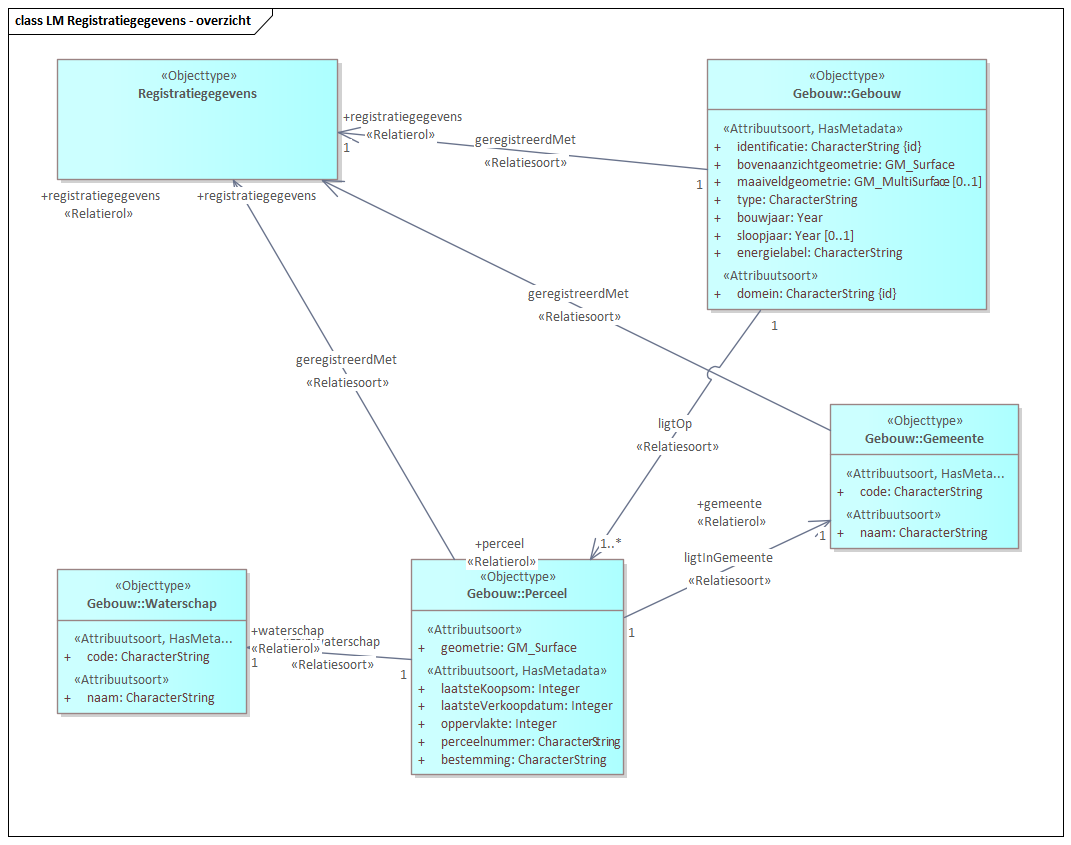
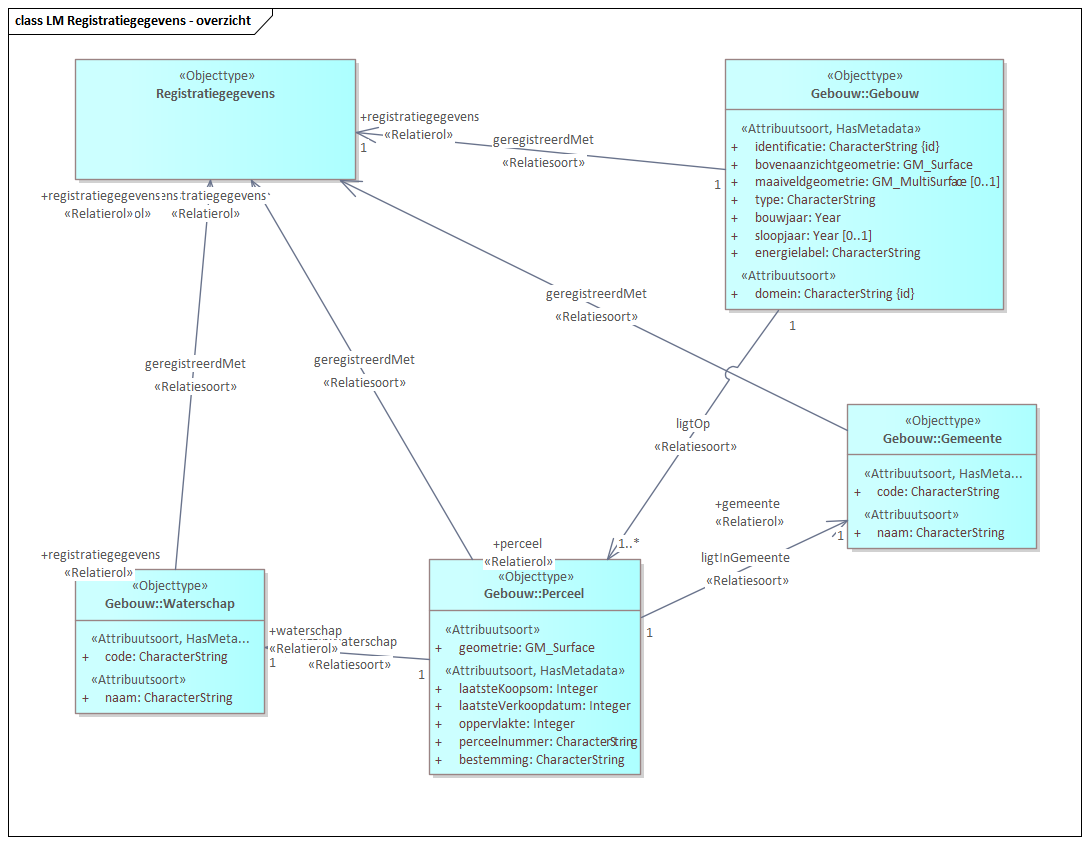
MIMCM-Gebouw-logisch-1.0-0-20230401-20230403-084540

diff --git a/data/WaU-UC3-cat.respec.html b/data/WaU-UC3-cat.respec.html
@@ -1,11 +1,11 @@
 
 <!DOCTYPE HTML><section id="cat" class="normative">
    <h2>Gegevensdefinitie</h2>
-   <!--MIMCM-Gebouw-logisch-1.0-0-20230401-20230403-065710 imvertor 2.0.0--><a class="anchor" id="global_package_Registratiegegevens"></a><section id="global_package_Registratiegegevens">
+   <!--MIMCM-Gebouw-logisch-1.0-0-20230401-20230403-084540 imvertor 2.0.0--><a class="anchor" id="global_package_Registratiegegevens"></a><section id="global_package_Registratiegegevens">
       <h3>Domein   Registratiegegevens</h3>
       <section id="EAID_50FEB38A_40C6_48b7_A5F7_21CB8FE1E6C5">
          <h4>   LM Registratiegegevens - overzicht</h4>
-         <div class="imageinfo overview"><img src="data/Images/EAID_50FEB38A_40C6_48b7_A5F7_21CB8FE1E6C5.png" usemap="#imagemap-EAID_50FEB38A_40C6_48b7_A5F7_21CB8FE1E6C5" alt="Diagram &#xA;                        &#xA;                     "><map name="imagemap-EAID_50FEB38A_40C6_48b7_A5F7_21CB8FE1E6C5"><area shape="rect" alt="Waterschap" coords="57,569,247,714" href="#graph_EAID_FB5658BC_FE15_448d_875A_140B3EE79AB2"><area shape="rect" alt="Perceel" coords="411,559,624,775" href="#graph_EAID_4A1CA6FC_D4A5_41a5_9BD4_BD6B16303F41"><area shape="rect" alt="Gemeente" coords="830,404,1019,549" href="#graph_EAID_2EA84099_049E_46b1_9441_C3877028F35C"><area shape="rect" alt="Gebouw" coords="707,59,987,310" href="#graph_EAID_88368E67_5068_4623_82B0_CFBA23798D84"><area shape="rect" alt="Registratiegegevens" coords="57,59,338,180" href="#graph_EAID_7DEC5472_21EE_4ba3_9C92_9C1D01D3450F"></map><p><b>LM Registratiegegevens - overzicht</b></p>
+         <div class="imageinfo overview"><img src="data/Images/EAID_50FEB38A_40C6_48b7_A5F7_21CB8FE1E6C5.png" usemap="#imagemap-EAID_50FEB38A_40C6_48b7_A5F7_21CB8FE1E6C5" alt="Diagram &#xA;                        &#xA;                     "><map name="imagemap-EAID_50FEB38A_40C6_48b7_A5F7_21CB8FE1E6C5"><area shape="rect" alt="Waterschap" coords="75,569,265,714" href="#graph_EAID_FB5658BC_FE15_448d_875A_140B3EE79AB2"><area shape="rect" alt="Perceel" coords="429,559,641,775" href="#graph_EAID_4A1CA6FC_D4A5_41a5_9BD4_BD6B16303F41"><area shape="rect" alt="Gemeente" coords="847,404,1037,549" href="#graph_EAID_2EA84099_049E_46b1_9441_C3877028F35C"><area shape="rect" alt="Gebouw" coords="725,59,1004,310" href="#graph_EAID_88368E67_5068_4623_82B0_CFBA23798D84"><area shape="rect" alt="Registratiegegevens" coords="75,59,356,180" href="#graph_EAID_7DEC5472_21EE_4ba3_9C92_9C1D01D3450F"></map><p><b>LM Registratiegegevens - overzicht</b></p>
          </div>
       </section>
       <section id="">
@@ -80,6 +80,20 @@
                   <tr>
                      <td>
                         
+                        <a class="link" href="#global_class_Gebouw_Waterschap">Waterschap</a>
+                        
+                        [ 1 ]
+                        
+                        <a class="link" href="#detail_association_Gebouw_Waterschap_registratiegegevens">geregistreerdMet: registratiegegevens</a>
+                        
+                        Registratiegegevens
+                        [ 1 ]
+                        </td>
+                     <td></td>
+                  </tr>
+                  <tr>
+                     <td>
+                        
                         <a class="link" href="#global_class_Adres_Adres">Adres</a>
                         
                         [ 1 ]
@@ -103,7 +117,7 @@
       <h3>Domein   Gebouw</h3>
       <section id="EAID_5F7C3E6C_C360_4bbb_9B6D_68AB32915932">
          <h4>   LM Gebouw  - overzicht</h4>
-         <div class="imageinfo overview"><img src="data/Images/EAID_5F7C3E6C_C360_4bbb_9B6D_68AB32915932.png" usemap="#imagemap-EAID_5F7C3E6C_C360_4bbb_9B6D_68AB32915932" alt="Diagram &#xA;                        &#xA;                     "><map name="imagemap-EAID_5F7C3E6C_C360_4bbb_9B6D_68AB32915932"><area shape="rect" alt="Waterschap" coords="527,244,716,389" href="#graph_EAID_FB5658BC_FE15_448d_875A_140B3EE79AB2"><area shape="rect" alt="Gemeente" coords="527,59,716,203" href="#graph_EAID_2EA84099_049E_46b1_9441_C3877028F35C"><area shape="rect" alt="Perceel" coords="94,115,307,330" href="#graph_EAID_4A1CA6FC_D4A5_41a5_9BD4_BD6B16303F41"><area shape="rect" alt="Adres" coords="800,377,1089,663" href="#graph_EAID_878292C3_0E77_424a_B7CB_CEDC5517C209"><area shape="rect" alt="Gebouw" coords="48,400,344,662" href="#graph_EAID_88368E67_5068_4623_82B0_CFBA23798D84"></map><p><b>LM Gebouw  - overzicht</b></p>
+         <div class="imageinfo overview"><img src="data/Images/EAID_5F7C3E6C_C360_4bbb_9B6D_68AB32915932.png" usemap="#imagemap-EAID_5F7C3E6C_C360_4bbb_9B6D_68AB32915932" alt="Diagram &#xA;                        &#xA;                     "><map name="imagemap-EAID_5F7C3E6C_C360_4bbb_9B6D_68AB32915932"><area shape="rect" alt="Registratiegegevens" coords="318,63,441,111" href="#graph_EAID_7DEC5472_21EE_4ba3_9C92_9C1D01D3450F"><area shape="rect" alt="Waterschap" coords="493,416,682,561" href="#graph_EAID_FB5658BC_FE15_448d_875A_140B3EE79AB2"><area shape="rect" alt="Gemeente" coords="527,231,716,375" href="#graph_EAID_2EA84099_049E_46b1_9441_C3877028F35C"><area shape="rect" alt="Perceel" coords="94,287,307,502" href="#graph_EAID_4A1CA6FC_D4A5_41a5_9BD4_BD6B16303F41"><area shape="rect" alt="Adres" coords="800,549,1089,835" href="#graph_EAID_878292C3_0E77_424a_B7CB_CEDC5517C209"><area shape="rect" alt="Gebouw" coords="48,572,344,834" href="#graph_EAID_88368E67_5068_4623_82B0_CFBA23798D84"></map><p><b>LM Gebouw  - overzicht</b></p>
          </div>
       </section>
       <section id="">
@@ -632,6 +646,20 @@
                   <tr>
                      <th>Rol naam met kardinaliteiten</th>
                      <th>Definitie</th>
+                  </tr>
+                  <tr>
+                     <td>
+                        Waterschap
+                        [ 1 ]
+                        
+                        <a class="link" href="#detail_association_Gebouw_Waterschap_registratiegegevens">geregistreerdMet: registratiegegevens</a>
+                        
+                        
+                        <a class="link" href="#global_class_Registratiegegevens_Registratiegegevens">Registratiegegevens</a>
+                        
+                        [ 1 ]
+                        </td>
+                     <td></td>
                   </tr>
                   <tr>
                      <td>
@@ -1559,6 +1587,31 @@
                         <tr>
                            <th>Type</th>
                            <td>CHARACTERSTRING</td>
+                        </tr>
+                     </tbody>
+                  </table>
+                  </div>
+               <a class="anchor" id="detail_association_Gebouw_Waterschap_registratiegegevens"></a><div class="deepheader" id="detail_association_Gebouw_Waterschap_registratiegegevens">
+                  <h7>Relatiesoort details  <a href="#global_class_Gebouw_Waterschap">Waterschap</a> geregistreerdMet</h7>
+                  
+                  
+                  <table style="width: 100%;">
+                     <colgroup style="width: 30%;"></colgroup>
+                     <colgroup style="width: 70%;"></colgroup>
+                     <tbody>
+                        <tr>
+                           <th>Naam</th>
+                           <td>geregistreerdMet</td>
+                        </tr>
+                        <tr>
+                           <th>Kardinaliteit</th>
+                           <td>1</td>
+                        </tr>
+                        <tr>
+                           <th>Gerelateerd objecttype</th>
+                           <td>
+                              <a class="link" href="#global_class_Registratiegegevens_Registratiegegevens">Registratiegegevens</a>
+                              </td>
                         </tr>
                      </tbody>
                   </table>
